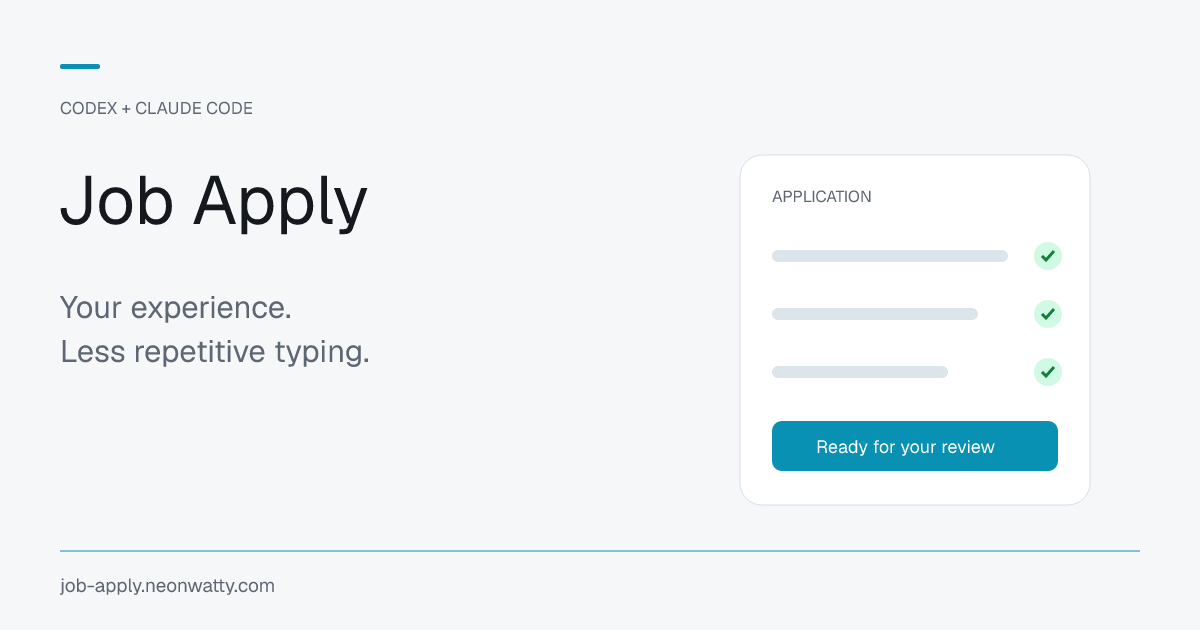
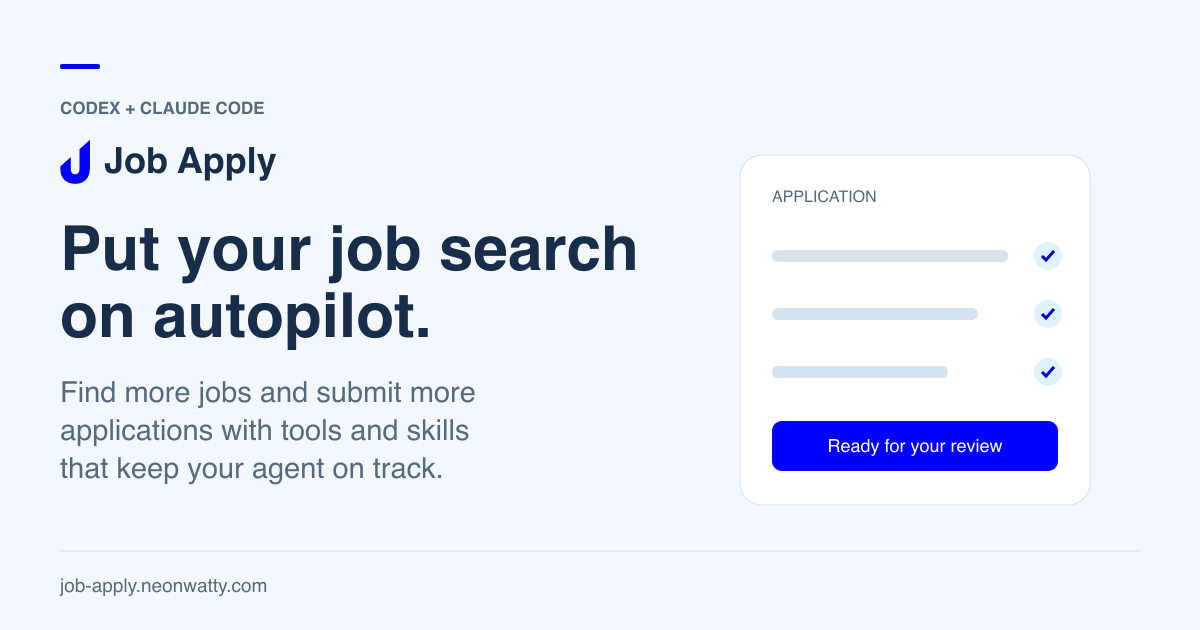
Refresh the Job Apply social preview card

diff --git a/site/index.html b/site/index.html
@@ -16,15 +16,15 @@
 <meta property="og:description" content="Prepare job applications for your review with Codex or Claude Code.">
 <meta property="og:type" content="website">
 <meta property="og:url" content="https://job-apply.neonwatty.com/">
-<meta property="og:image" content="https://job-apply.neonwatty.com/assets/social-card.png">
+<meta property="og:image" content="https://job-apply.neonwatty.com/assets/social-card.png?v=2">
 <meta property="og:image:width" content="1200">
 <meta property="og:image:height" content="630">
-<meta property="og:image:alt" content="Job Apply — Prepare job applications for your review with Codex or Claude Code.">
+<meta property="og:image:alt" content="Job Apply. Put your job search on autopilot. Find more jobs and submit more applications with tools and skills that keep your agent on track.">
 <meta name="twitter:card" content="summary_large_image">
 <meta name="twitter:title" content="Job Apply">
 <meta name="twitter:description" content="Prepare job applications for your review with Codex or Claude Code.">
-<meta name="twitter:image" content="https://job-apply.neonwatty.com/assets/social-card.png">
-<meta name="twitter:image:alt" content="Job Apply — Prepare job applications for your review with Codex or Claude Code.">
+<meta name="twitter:image" content="https://job-apply.neonwatty.com/assets/social-card.png?v=2">
+<meta name="twitter:image:alt" content="Job Apply. Put your job search on autopilot. Find more jobs and submit more applications with tools and skills that keep your agent on track.">
 </head>
 <body>
   <a class="skip-link" href="#main">Skip to content</a>
